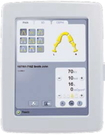
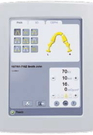
Recreate image versions

diff --git a/app/models/product.rb b/app/models/product.rb
@@ -14,6 +14,8 @@ class Product < ActiveRecord::Base
                   :photo3, :remove_photo3, :photo3_cache,
                   :photo4, :remove_photo4, :photo4_cache,
                   :photo5, :remove_photo5, :photo5_cache
+  
+  attr_accessor :photo1, :photo2, :photo3, :photo4, :photo5
 
   validates_presence_of :name, :slug, :brand_id, :category_id
   validates_presence_of :image, :message => "Добавьте фотографию товара"

diff --git a/app/uploaders/product_image_uploader.rb b/app/uploaders/product_image_uploader.rb
@@ -41,7 +41,7 @@ class ProductImageUploader < CarrierWave::Uploader::Base
     process :resize_to_fill => [75, 100]
   end
   version :medium do
-    process :resize_to_fill => [105, 135]
+    process :resize_to_fill => [93, 135]
   end
   version :full do
     process :resize_to_fill => [800, 600]

diff --git a/lib/scripts/recreate_versions.rb b/lib/scripts/recreate_versions.rb
@@ -1,0 +1,7 @@
+Product.all.each do |p|
+  %w(photo1 photo2 photo3 photo4 photo5).map(&:to_sym).each do |photo|
+    if p.read_attribute(photo).present?
+      p.send(photo).recreate_versions!
+    end
+  end
+end
